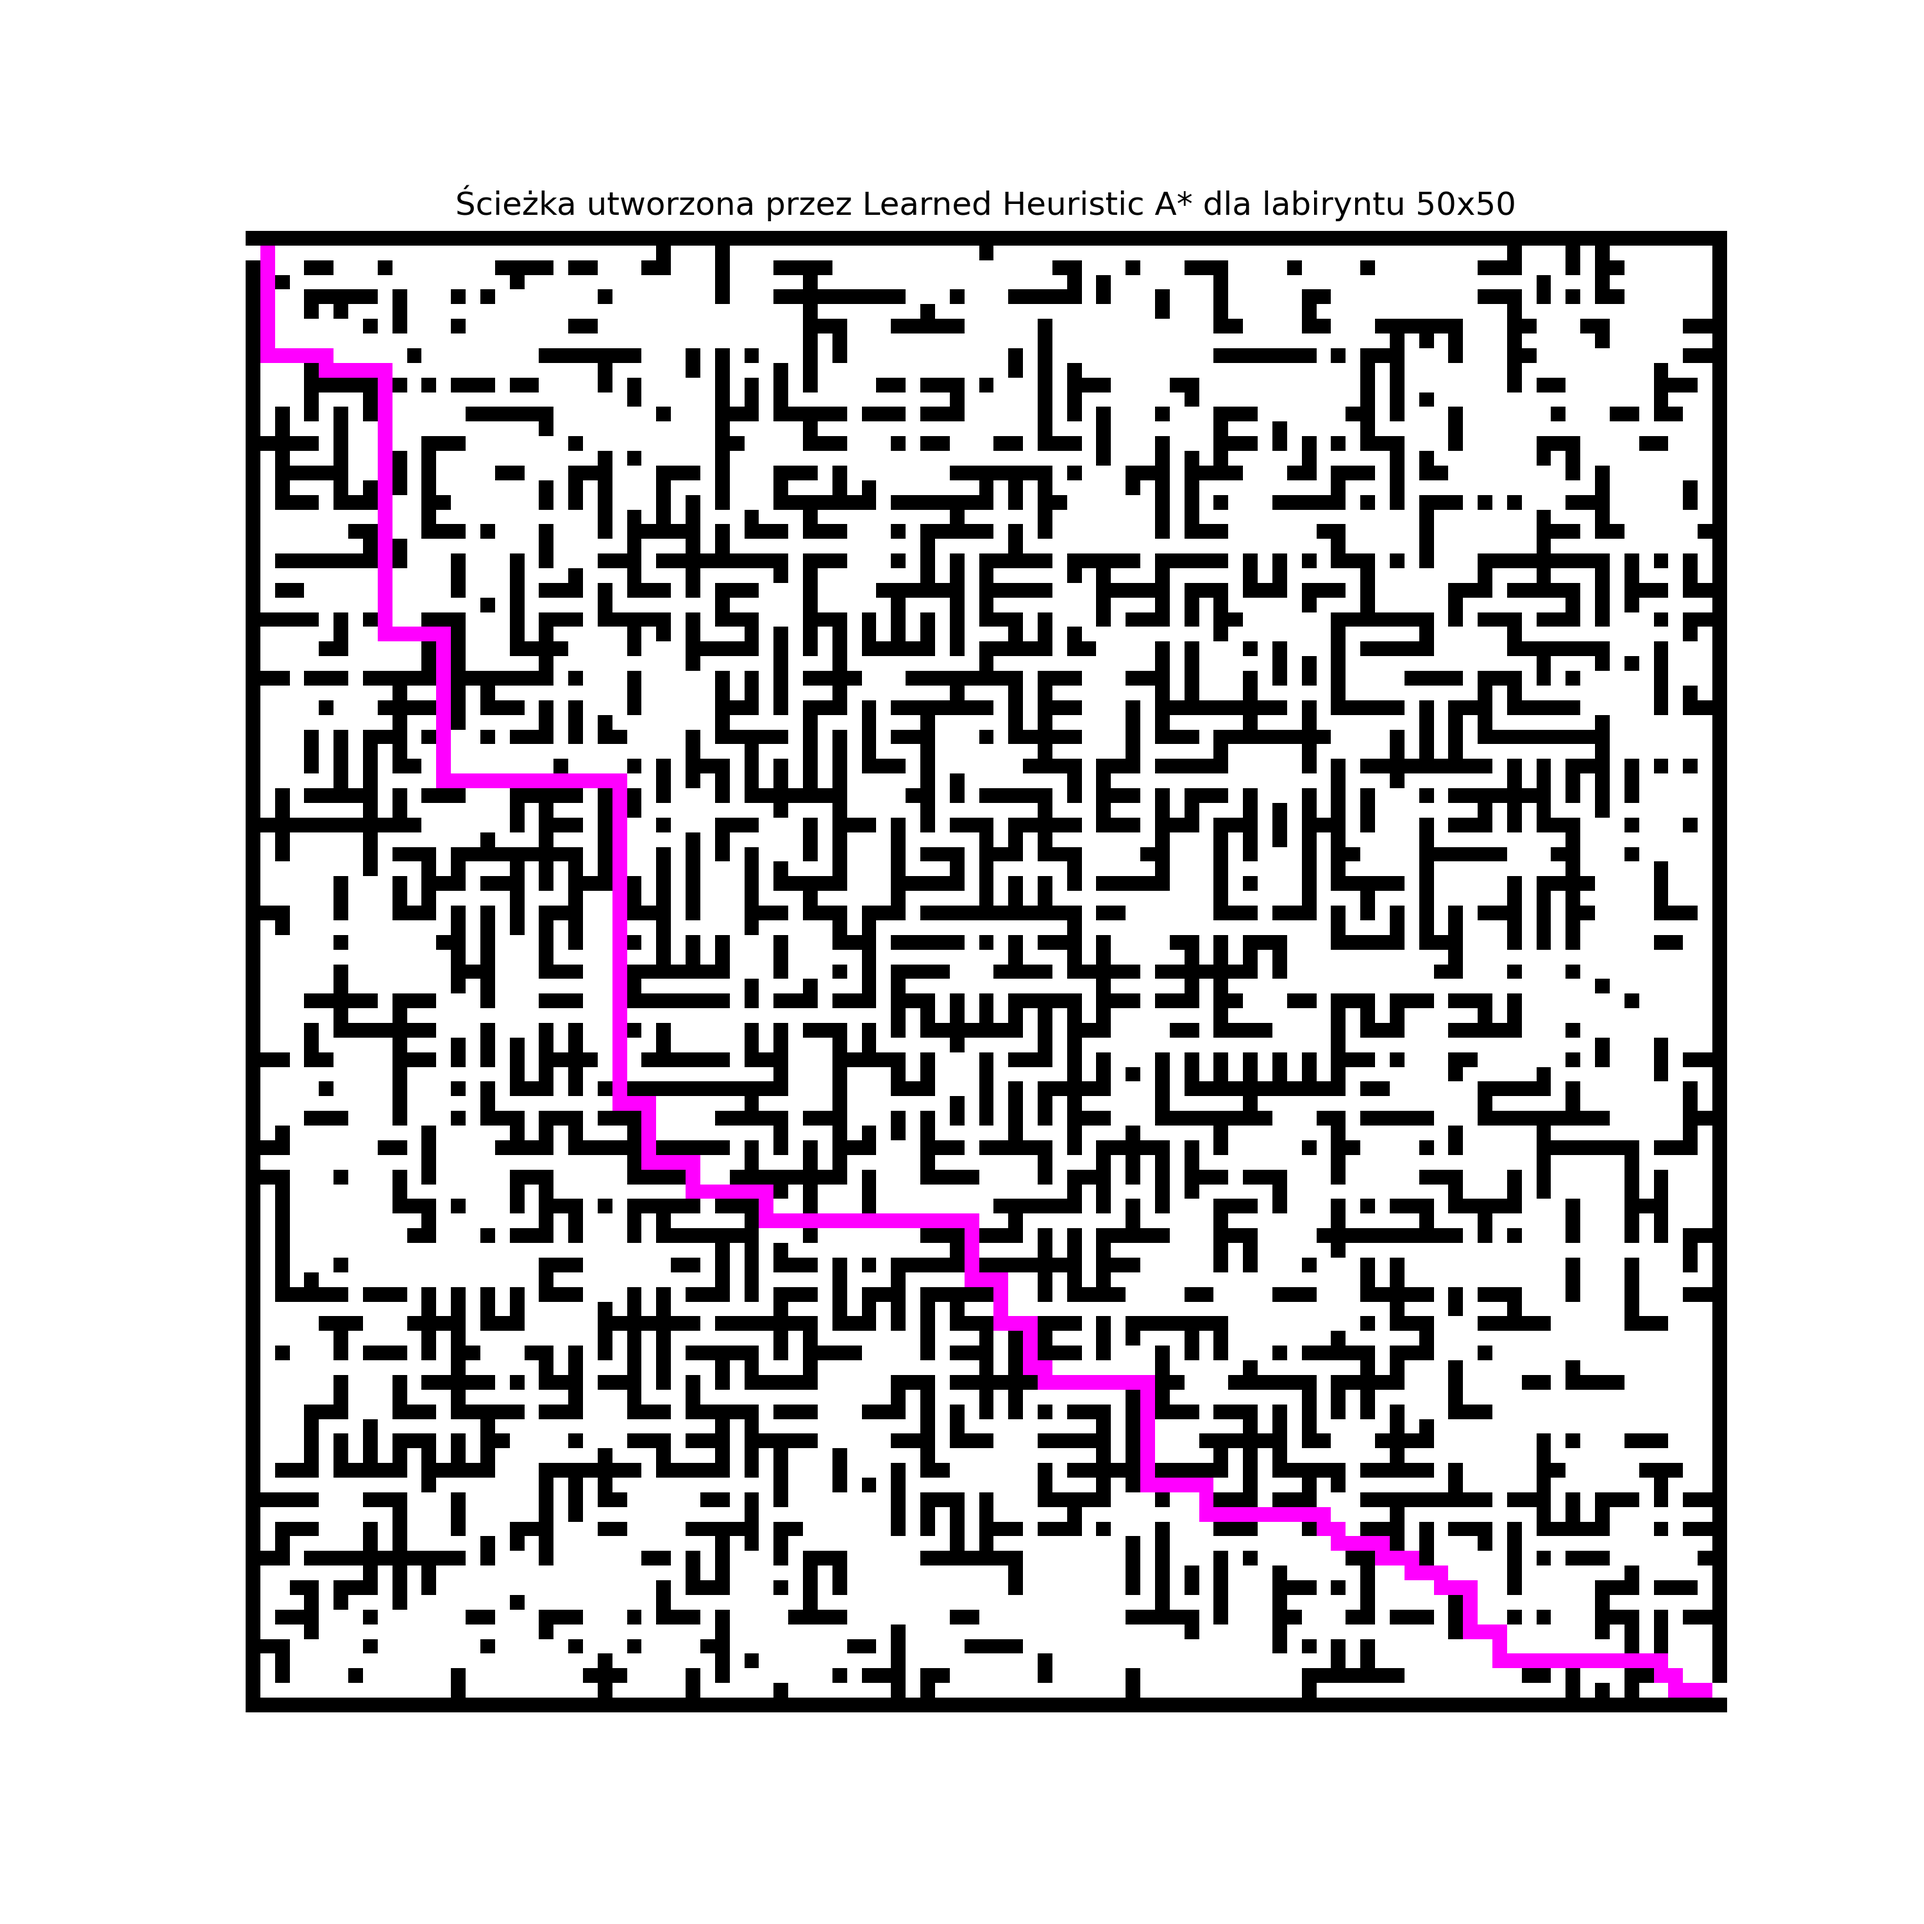
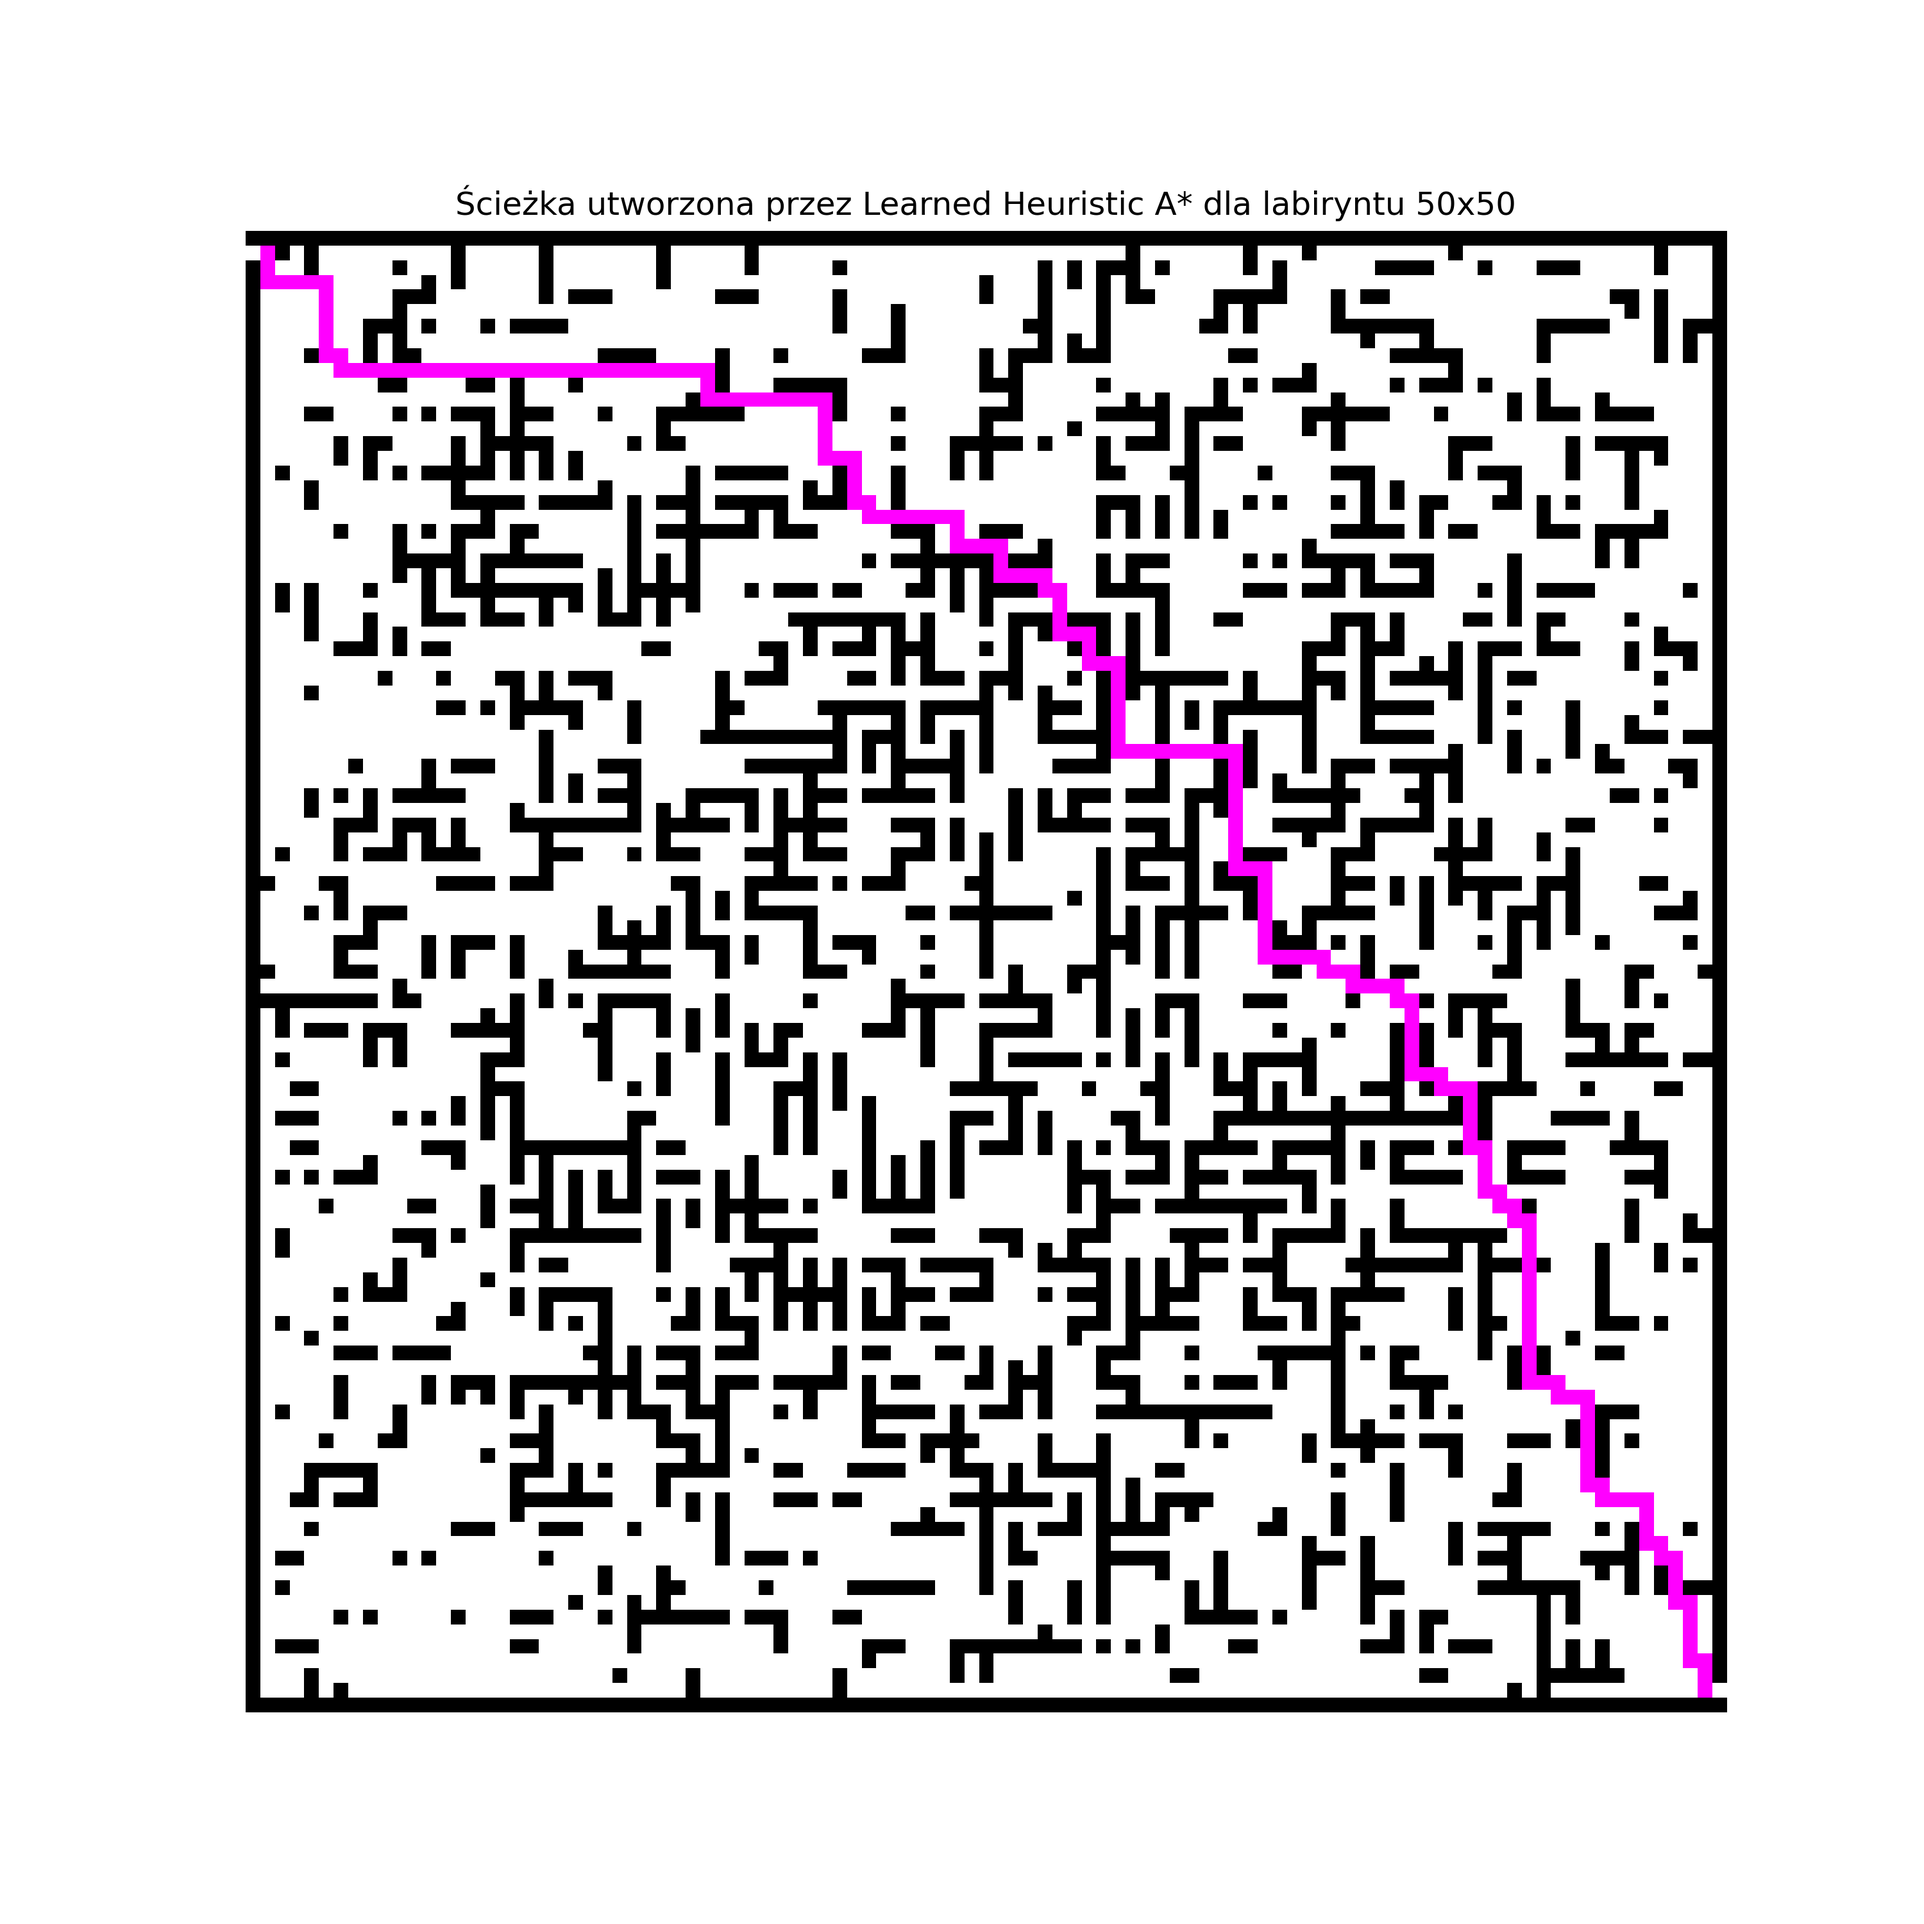
feat(hyper-heuristic): Use multithreading for training data, add start disatnce to model features

Changed region(s): [[0.124, 0.124, 0.899, 0.899]]

diff --git a/hh_learn_test.py b/hh_learn_test.py
@@ -7,6 +7,8 @@ import random
 from maze import Maze
 from qlearning import Model
 
+from concurrent.futures import ThreadPoolExecutor, as_completed
+
 
 class HeuristicFeatureExtractor:
     """
@@ -46,6 +48,8 @@ class HeuristicFeatureExtractor:
                 abs(y - gy),  # Manhattan distance Y
                 # Chebyshev distance
                 # max(abs(x - gx), abs(y - gy)),
+                -abs(x - sx),  # distance from start X
+                -abs(y - sy),  # distance from start Y
             ]
         )
 
@@ -547,6 +551,30 @@ def learned_heuristic_astar(
     return None
 
 
+def generate_and_learn_random_point(maze, heuristic_learner):
+    while True:
+        sx, sy = (
+            random.randint(1, maze.grid_w - 2),
+            random.randint(1, maze.grid_h - 2),
+        )
+        if maze.grid[sy][sx] == 0:
+            break
+    while True:
+        gx, gy = (
+            random.randint(1, maze.grid_w - 2),
+            random.randint(1, maze.grid_h - 2),
+        )
+        if maze.grid[gy][gx] == 0:
+            break
+
+    temp_model = Model(
+        maze.grid, (sx, sy), (gx, gy), 1000, 100,
+        maze.weighed_grid,
+    )
+    temp_model.learn()
+    return temp_model.qtable, (gx, gy)
+
+
 def integrate():
     # TODO:  wytrenowac modele na bazie mazeType'ow, ewentualnie tweak
     # parametrow do gestosci labiryntu
@@ -568,36 +596,43 @@ def integrate():
     heuristic_learner.collect_training_data_from_qlearning(model.qtable, goal_pos)
 
     # Metoda 2: Nauka z losowych startów i celów
-    for _ in range(50):
-        while True:
-            sx, sy = (
-                random.randint(1, maze.grid_w - 2),
-                random.randint(1, maze.grid_h - 2),
-            )
-            print("Trying start position:", (sx, sy))
-            if maze.grid[sy][sx] == 0:
-                print("Found valid start position:", (sx, sy))
-                break
-        while True:
-            gx, gy = (
-                random.randint(1, maze.grid_w - 2),
-                random.randint(1, maze.grid_h - 2),
-            )
-            print("Trying goal position:", (gx, gy))
-            if maze.grid[gy][gx] == 0:
-                print("Found valid goal position:", (gx, gy))
-                break
+    # for _ in range(50):
+    #     while True:
+    #         sx, sy = (
+    #             random.randint(1, maze.grid_w - 2),
+    #             random.randint(1, maze.grid_h - 2),
+    #         )
+    #         print("Trying start position:", (sx, sy))
+    #         if maze.grid[sy][sx] == 0:
+    #             print("Found valid start position:", (sx, sy))
+    #             break
+    #     while True:
+    #         gx, gy = (
+    #             random.randint(1, maze.grid_w - 2),
+    #             random.randint(1, maze.grid_h - 2),
+    #         )
+    #         print("Trying goal position:", (gx, gy))
+    #         if maze.grid[gy][gx] == 0:
+    #             print("Found valid goal position:", (gx, gy))
+    #             break
+    #
+    #     print(f"Collecting data for start: {(sx, sy)}, goal: {(gx, gy)}")
+    #     temp_model = Model(
+    #         maze.grid, (sx, sy), (gx, gy), 1000, 100,
+    #         maze.weighed_grid,
+    #     )
+    #     temp_model.learn()
+    #     heuristic_learner.collect_training_data_from_qlearning(
+    #         temp_model.qtable, (gx, gy)
+    #     )
+    #     print(f"Collected data for start: {(sx, sy)}, goal: {(gx, gy)}")
 
-        print(f"Collecting data for start: {(sx, sy)}, goal: {(gx, gy)}")
-        temp_model = Model(
-            maze.grid, (sx, sy), (gx, gy), 1000, 100,
-            maze.weighed_grid,
-        )
-        temp_model.learn()
-        heuristic_learner.collect_training_data_from_qlearning(
-            temp_model.qtable, (gx, gy)
-        )
-        print(f"Collected data for start: {(sx, sy)}, goal: {(gx, gy)}")
+    with ThreadPoolExecutor(max_workers=8) as executor:
+        futures = [executor.submit(generate_and_learn_random_point, maze, heuristic_learner) for _ in range(50)]
+
+    for future in as_completed(futures):
+        qtable, goal = future.result()
+        heuristic_learner.collect_training_data_from_qlearning(qtable, goal)
 
     epochs = 100
     heuristic_learner.train(epochs=epochs)

diff --git a/qlearning.py b/qlearning.py
@@ -7,10 +7,10 @@ import pickle
 
 def weighted_h(a: Tuple[int, int], b: Tuple[int, int], weights: List[List[int]]):
     return (
-        # (abs(a[0] - b[0]) + abs(a[1] - b[1])) // 5 +
+        (abs(a[0] - b[0]) + abs(a[1] - b[1])) // 5 +
         # Euclidean distance
-        np.sqrt((a[0] - b[0]) ** 2 + (a[1] - b[1]) ** 2) / 2 +
-        (weights[a[1]][a[0]] + weights[b[1]][b[0]]) * 5
+        # np.sqrt((a[0] - b[0]) ** 2 + (a[1] - b[1]) ** 2) / 2 +
+        (weights[a[1]][a[0]] + weights[b[1]][b[0]])  # * 5
     )
 
 

diff --git a/main.py b/main.py
@@ -51,8 +51,8 @@ def main():
     np.random.seed(sed)
     res = []
 
-    w = 100
-    h = 100
+    w = 50
+    h = 50
     folder_name = f"{w}x{h}-s{sed}"
     maze = Maze(w, h)
     if os.path.isdir(folder_name):
